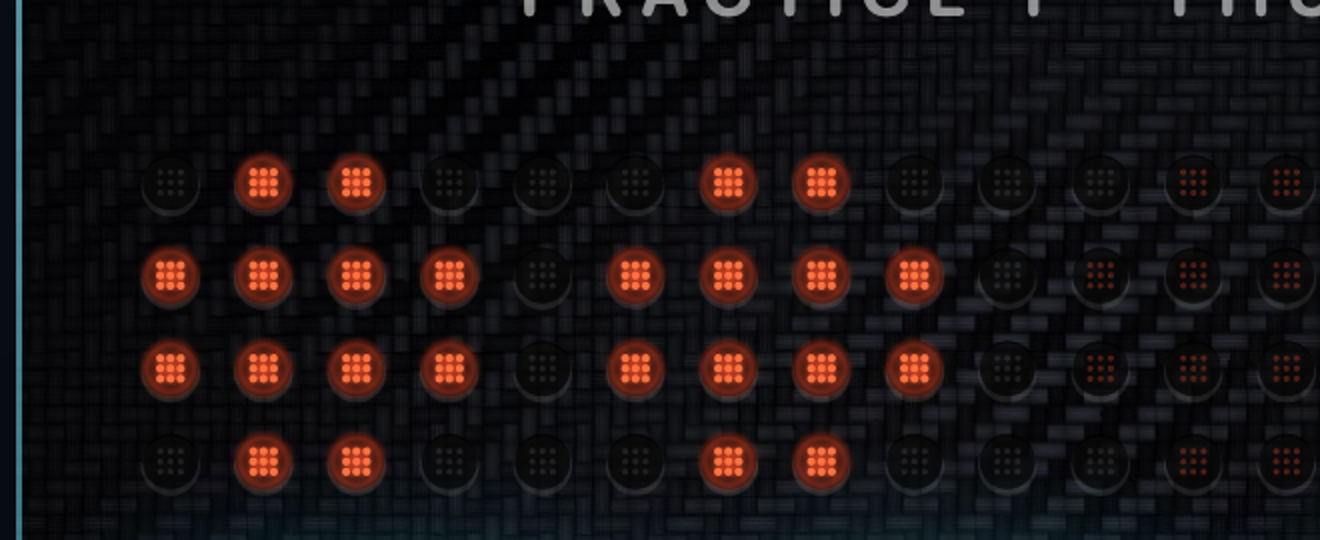
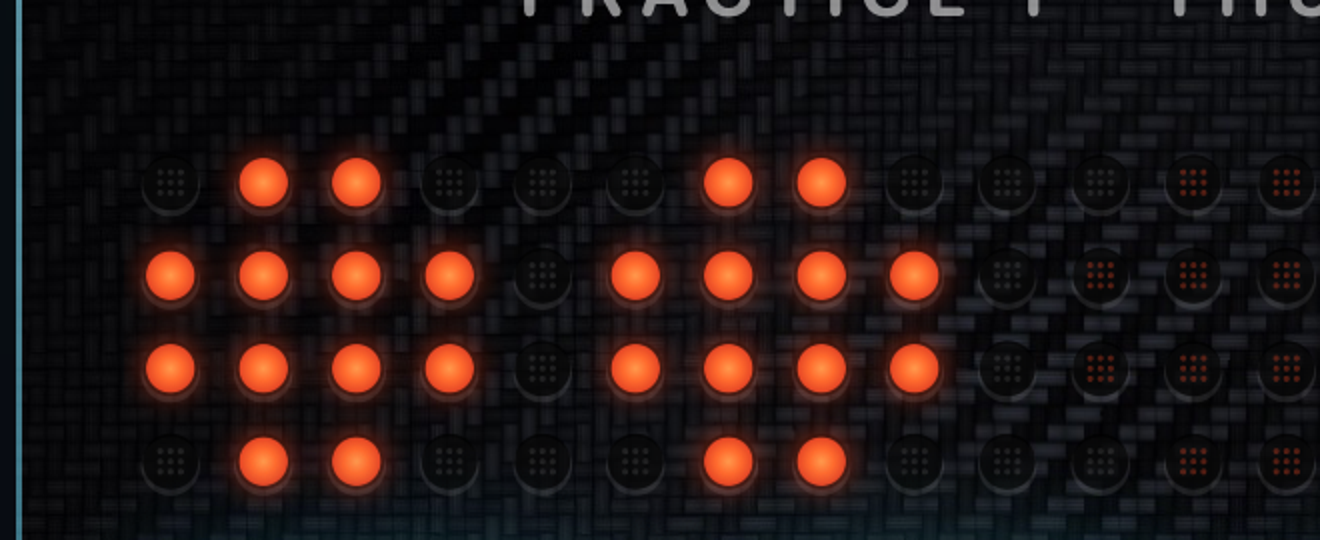
Lit LED: one solid soft-edged glowing disc, per the sample

diff --git a/TeamRadio/Views/CockpitKit.swift b/TeamRadio/Views/CockpitKit.swift
@@ -152,35 +152,16 @@ struct DotMatrixBoard: View {
             // lit LEDs: a soft additive halo, a coloured point, a bright core
             let glowing = lit.map { (center($0.key % 1000, $0.key / 1000), $0.value) }
             // each lit LED: a small halo, a thin bright ring at the lens edge, a hot core
-            // the red glowing ring at the lens edge — bright, but with a tight blur
+            // a lit LED: one solid glowing disc with a soft edge, like the sample
             ctx.drawLayer { layer in
                 layer.blendMode = .plusLighter
-                layer.addFilter(.blur(radius: 0.6))
-                for (p, k) in glowing {
-                    let r = pitch * 0.26
-                    layer.stroke(Path(ellipseIn: CGRect(x: p.x - r, y: p.y - r, width: 2 * r, height: 2 * r)),
-                                 with: .color(lightColor.opacity(0.9 * k)), lineWidth: 0.6)
-                }
-            }
-            // the LED's nine cells light individually, each with its own small halo
-            let hot = Color(red: 1.0, green: 0.45, blue: 0.25)
-            ctx.drawLayer { layer in
-                layer.blendMode = .plusLighter
-                layer.addFilter(.blur(radius: cellR * 1.6))
-                for (p, k) in glowing {
-                    for dx in -1...1 {
-                        for dy in -1...1 {
-                            disc(CGPoint(x: p.x + CGFloat(dx) * cellStep, y: p.y + CGFloat(dy) * cellStep), cellR * 2.2, .color(lightColor.opacity(0.55 * k)), in: &layer)
-                        }
-                    }
-                }
+                layer.addFilter(.blur(radius: pitch * 0.16))
+                for (p, k) in glowing { disc(p, pitch * 0.3, .color(lightColor.opacity(0.55 * k)), in: &layer) }
             }
             for (p, k) in glowing {
-                for dx in -1...1 {
-                    for dy in -1...1 {
-                        disc(CGPoint(x: p.x + CGFloat(dx) * cellStep, y: p.y + CGFloat(dy) * cellStep), cellR * 1.35, .color(hot.opacity(0.7 + 0.3 * k)), in: &ctx)
-                    }
-                }
+                disc(p, pitch * 0.26, .radialGradient(
+                    Gradient(colors: [Color(red: 1.0, green: 0.6, blue: 0.3).opacity(k), Color(red: 1.0, green: 0.42, blue: 0.18).opacity(k), lightColor.opacity(0.85 * k)]),
+                    center: p, startRadius: 0, endRadius: pitch * 0.26), in: &ctx)
             }
         }
         // a little taller than the grid so the halos aren't clipped
